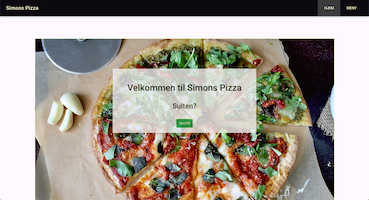
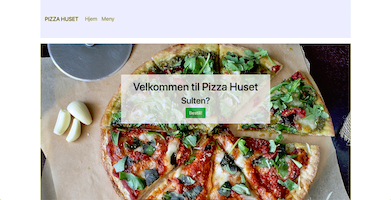
updated pizza project links and img

diff --git a/src/components/Projects.vue b/src/components/Projects.vue
@@ -165,7 +165,7 @@ export default {
         return {
             projects: [
                 {
-                    name: "Simons Pizza",
+                    name: "Pizza huset",
                     info: "En fiktiv nettside for en pizzasjappe. Nettsiden inkluderer en adminside som dynamisk endrer menyen og behandler bestillinger.",
                     egenskaper: [
                         "Single Page Application (Vue.js/Vue Router)",
@@ -175,7 +175,7 @@ export default {
                         "Bootstrap"
                     ],
                     linkToPlay: "https://simonvea.github.io/Pizzastore/",
-                    linkToCode: "https://github.com/simonvea/Pizzastore",
+                    linkToCode: "https://github.com/simonvea/pizzahuset",
                     img: pizzaImg
                 },
                 {
